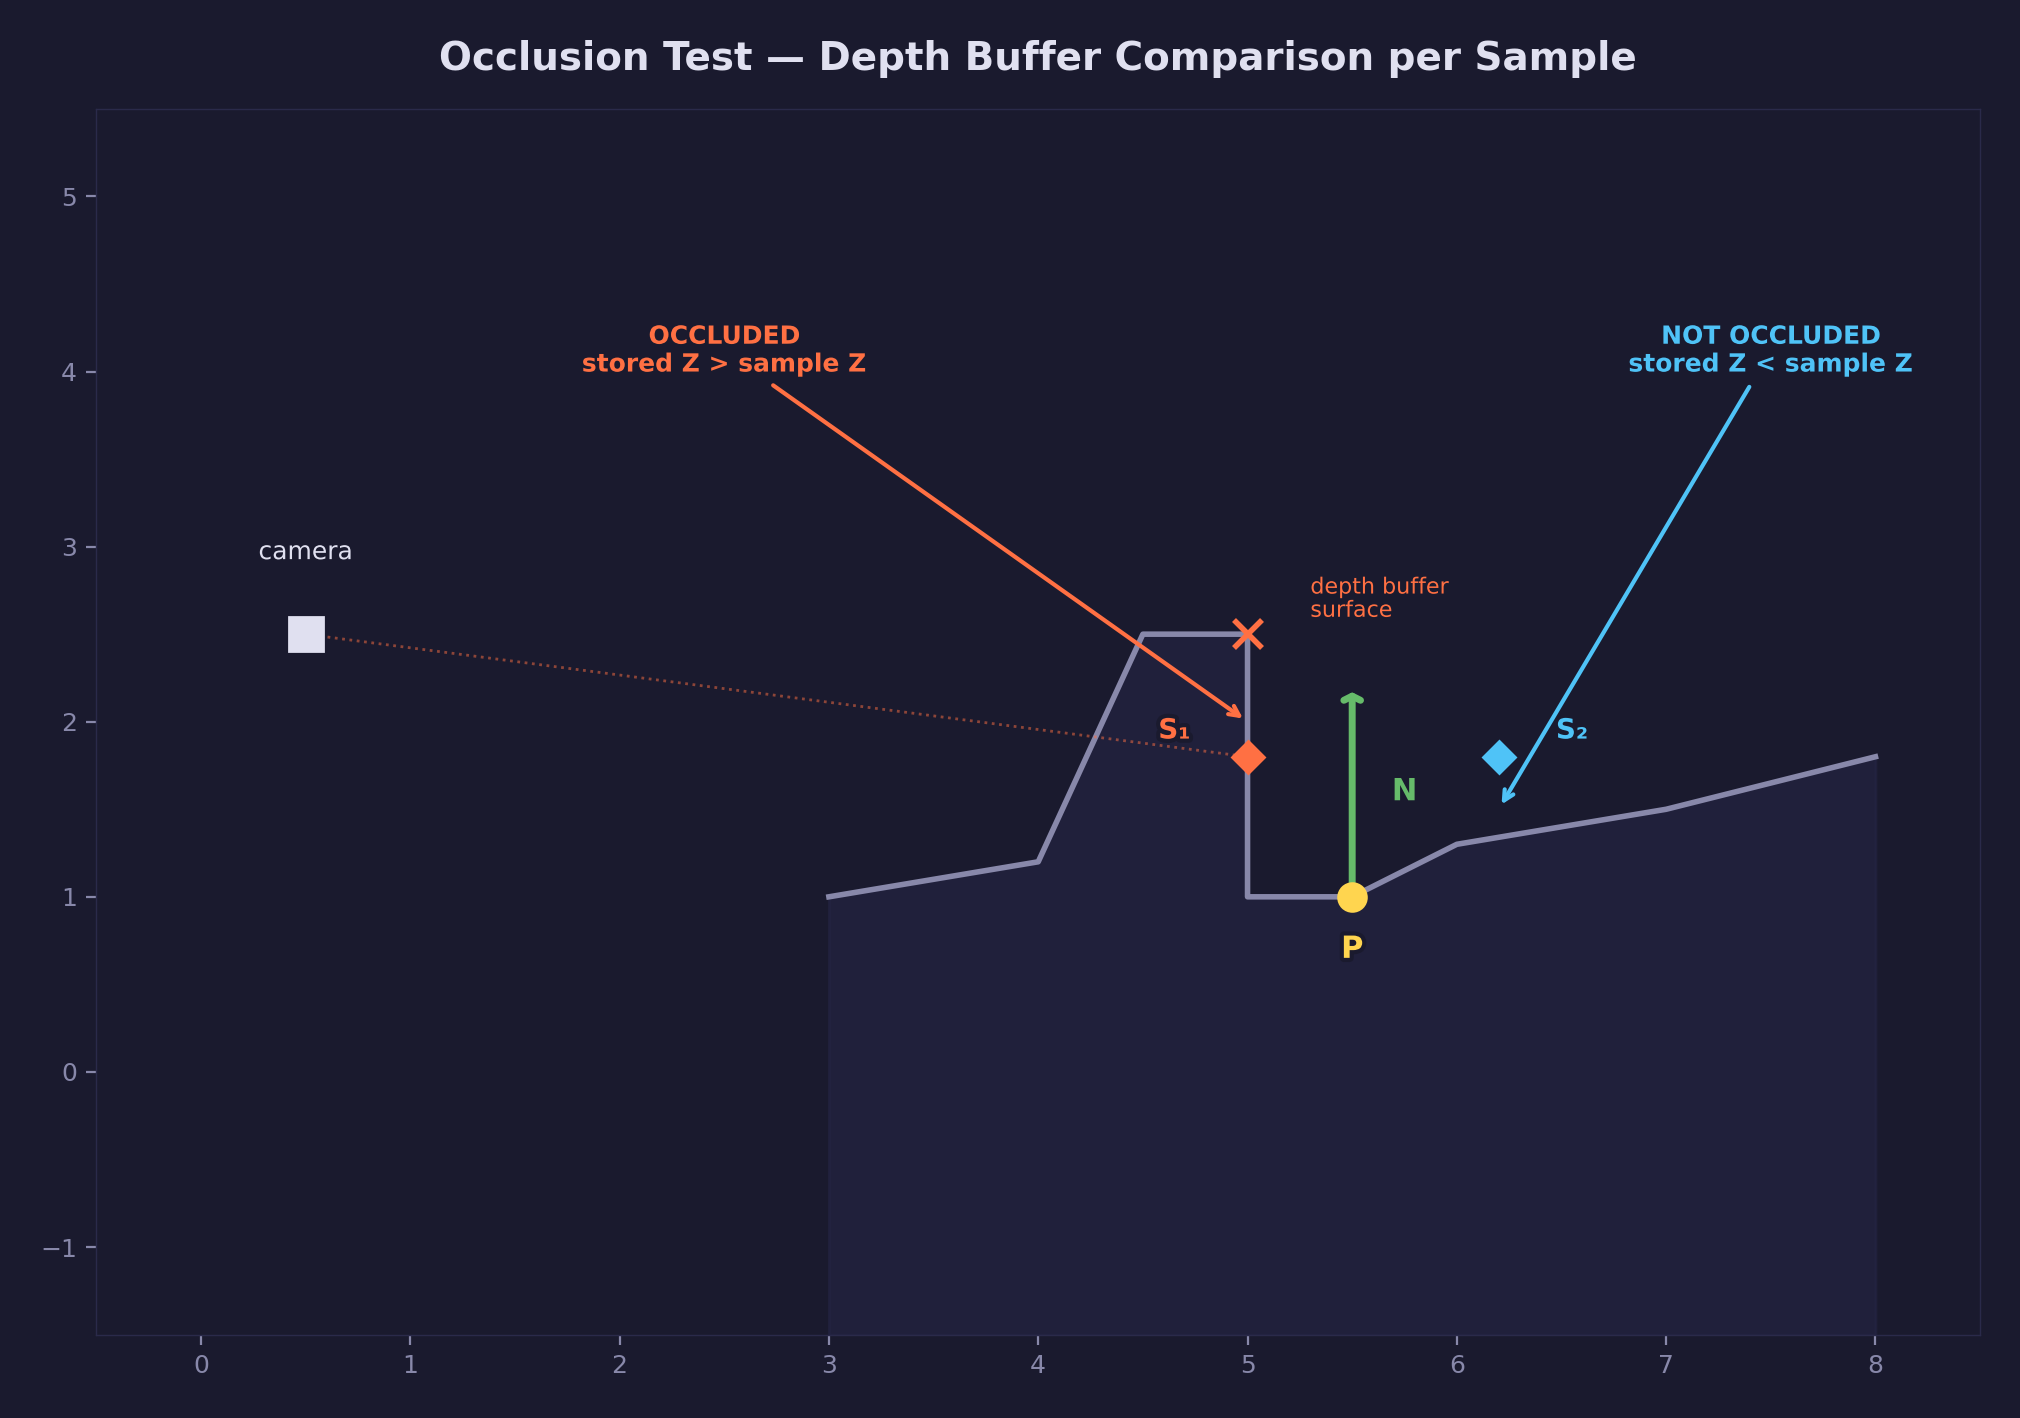
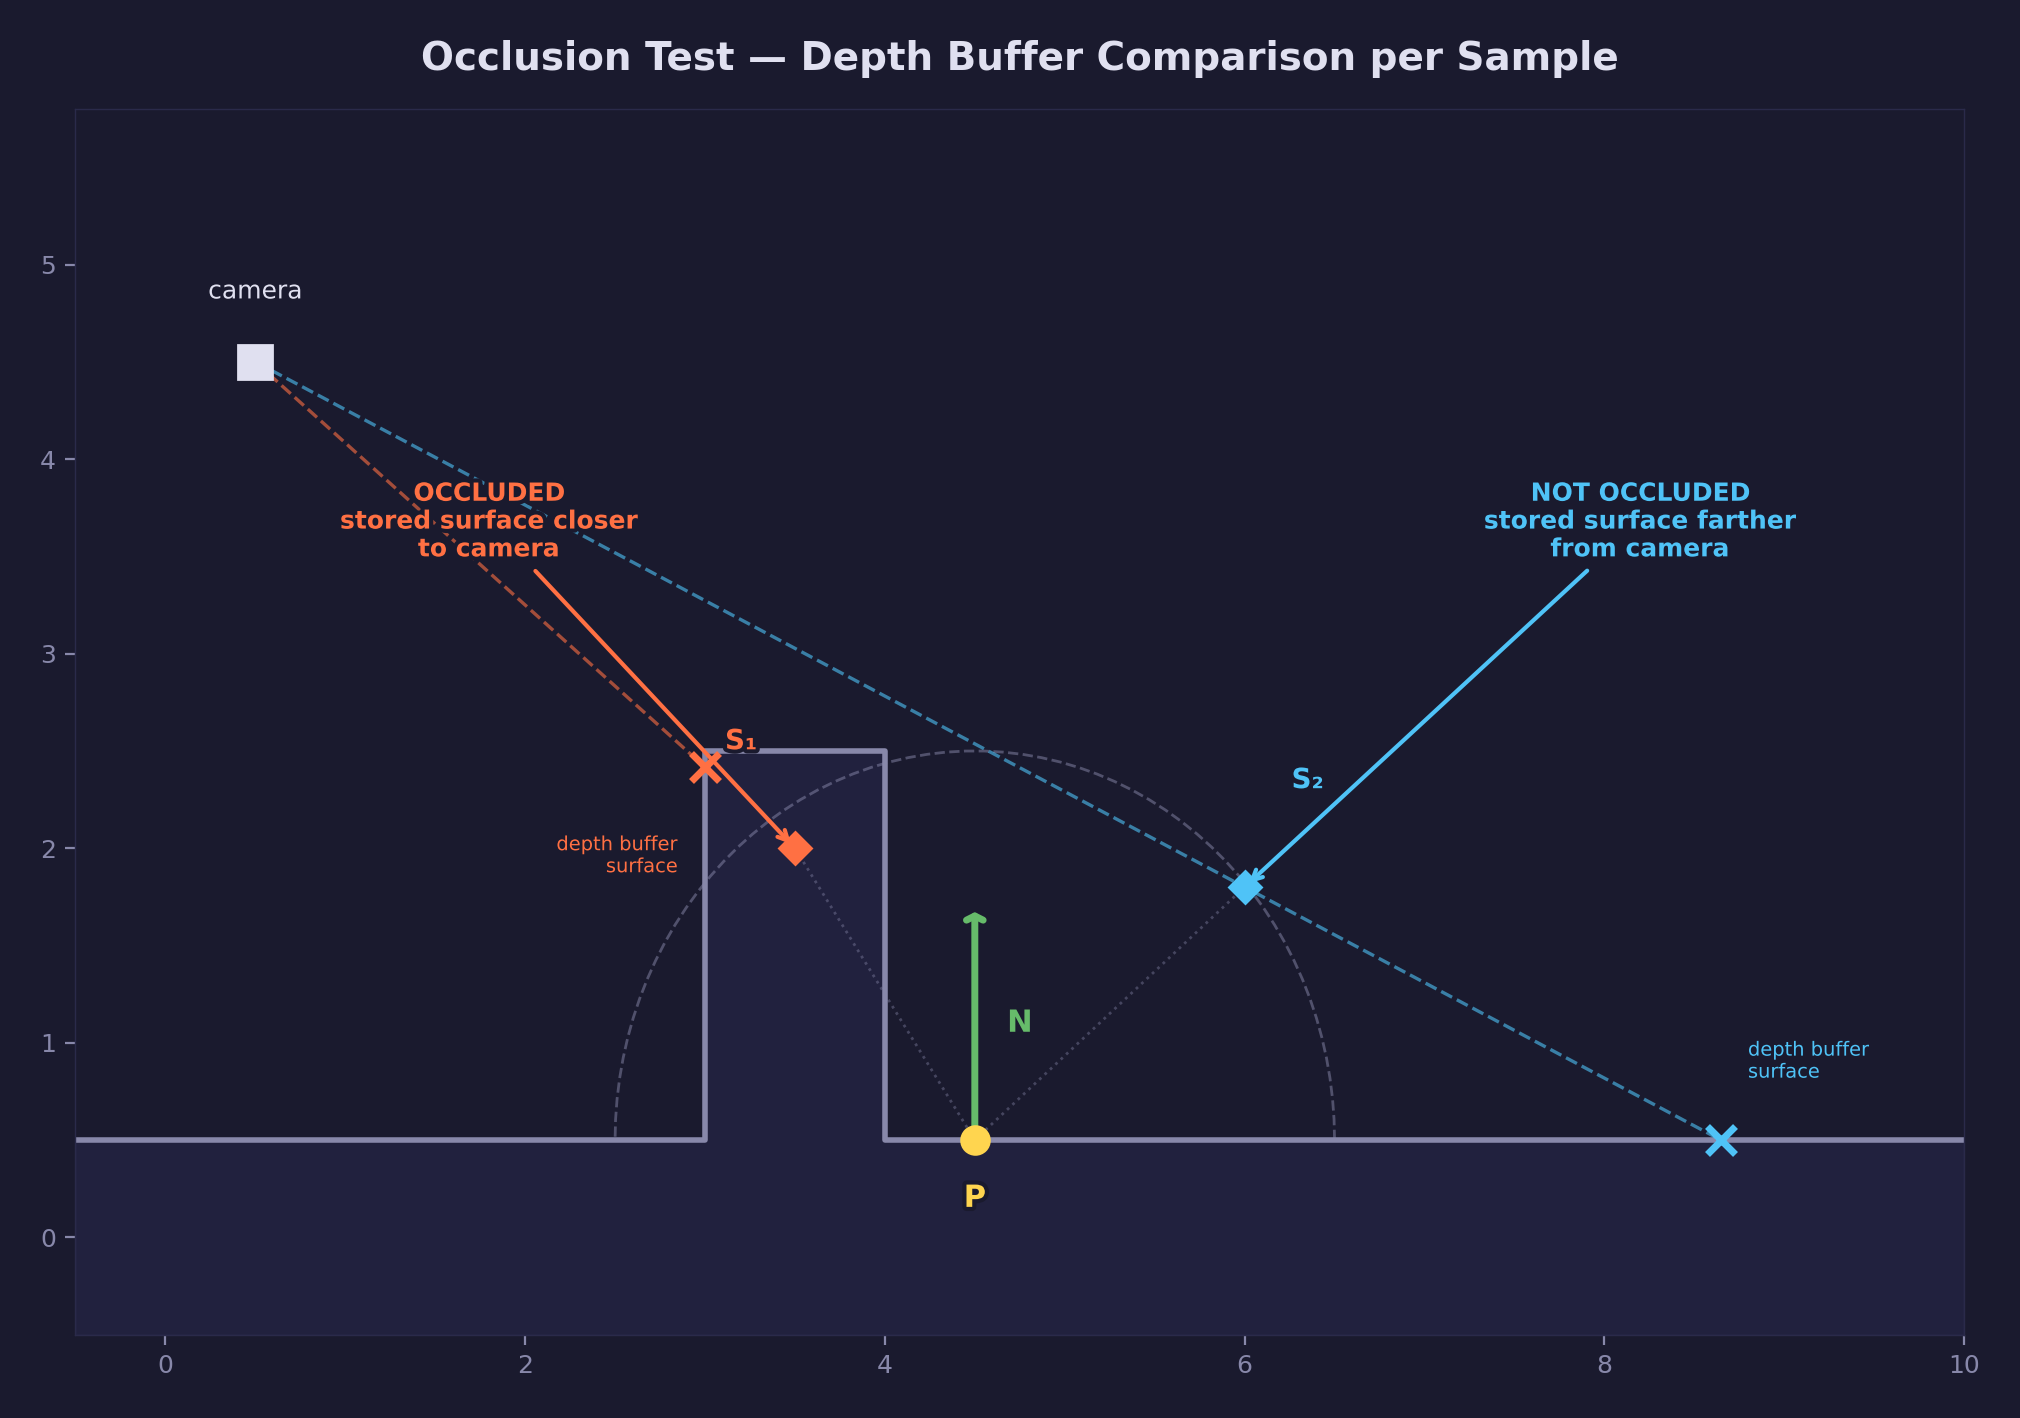
Improve SSAO occlusion diagram clarity and expand composite pass docs
Redesign the occlusion test diagram with concrete geometry (floor + step
block) instead of an abstract curved surface. Add explicit camera
projection rays to depth buffer hits, a dashed hemisphere arc showing
the sampling region, and plain-language annotations ("stored surface
closer/farther from camera" instead of "stored Z > sample Z").

Expand the composite pass section in the README to explain that it
targets the swapchain texture and how SDL's GPU API determines what
appears on screen, with a code snippet showing the setup.

Fix the view normals format in the render pipeline diagram from
R16G16_FLOAT to R16G16B16A16_FLOAT to match the actual code.

diff --git a/scripts/forge_diagrams/gpu_diagrams.py b/scripts/forge_diagrams/gpu_diagrams.py
@@ -7663,7 +7663,7 @@ def diagram_ssao_render_pipeline():
     outputs = [
         (1.0, 4.3, "shadow_depth\nD32_FLOAT\n2048\u00d72048", STYLE["accent4"]),
         (3.8, 3.1, "scene_color\nR8G8B8A8", STYLE["accent1"]),
-        (3.8, 1.8, "view_normals\nR16G16_FLOAT", STYLE["accent1"]),
+        (3.8, 1.8, "view_normals\nR16G16B16A16_FLOAT", STYLE["accent1"]),
         (3.8, 0.5, "scene_depth\nD32_FLOAT", STYLE["accent1"]),
         (6.6, 4.3, "ssao_raw\nR8_UNORM", STYLE["accent2"]),
         (9.4, 4.3, "ssao_blurred\nR8_UNORM", STYLE["accent3"]),
@@ -8469,16 +8469,30 @@ def diagram_occlusion_test():
     """How a single SSAO sample is tested: project, depth compare, range check."""
     fig = plt.figure(figsize=(10, 7), facecolor=STYLE["bg"])
     ax = fig.add_subplot(111)
-    setup_axes(ax, xlim=(-0.5, 8.5), ylim=(-1.5, 5.5), grid=False, aspect=None)
+    setup_axes(ax, xlim=(-0.5, 10.0), ylim=(-0.5, 5.8), grid=False, aspect=None)
 
     stroke = [pe.withStroke(linewidth=3, foreground=STYLE["bg"])]
 
-    # Camera at left
-    cam_x, cam_y = 0.5, 2.5
+    # ---- Geometry: floor + step block ----
+    floor_y = 0.5
+    step_left, step_right, step_top = 3.0, 4.0, 2.5
+
+    # Filled cross-section (floor extends full width, step rises in the middle)
+    geom_x = [-0.5, -0.5, step_left, step_left, step_right, step_right, 10.0, 10.0]
+    geom_y = [-0.5, floor_y, floor_y, step_top, step_top, floor_y, floor_y, -0.5]
+    ax.fill(geom_x, geom_y, color=STYLE["surface"], alpha=0.7, zorder=1)
+
+    # Visible surface outline
+    outline_x = [-0.5, step_left, step_left, step_right, step_right, 10.0]
+    outline_y = [floor_y, floor_y, step_top, step_top, floor_y, floor_y]
+    ax.plot(outline_x, outline_y, "-", color=STYLE["text_dim"], lw=2, zorder=2)
+
+    # ---- Camera ----
+    cam_x, cam_y = 0.5, 4.5
     ax.plot(cam_x, cam_y, "s", color=STYLE["text"], markersize=12, zorder=6)
     ax.text(
         cam_x,
-        cam_y + 0.4,
+        cam_y + 0.3,
         "camera",
         color=STYLE["text"],
         fontsize=9,
@@ -8488,21 +8502,8 @@ def diagram_occlusion_test():
         zorder=5,
     )
 
-    # Scene surface (cross-section) — a curved surface with a crevice
-    surface_x = np.array([3.0, 4.0, 4.5, 5.0, 5.0, 5.5, 6.0, 7.0, 8.0])
-    surface_y = np.array([1.0, 1.2, 2.5, 2.5, 1.0, 1.0, 1.3, 1.5, 1.8])
-    ax.fill_between(
-        surface_x,
-        [-1.5] * len(surface_x),
-        surface_y,
-        color=STYLE["surface"],
-        alpha=0.6,
-        zorder=1,
-    )
-    ax.plot(surface_x, surface_y, "-", color=STYLE["text_dim"], lw=2, zorder=2)
-
-    # Fragment point P on the surface
-    px, py = 5.5, 1.0
+    # ---- Fragment P on the floor just past the step ----
+    px, py = 4.5, 0.5
     ax.plot(px, py, "o", color=STYLE["warn"], markersize=10, zorder=6)
     ax.text(
         px,
@@ -8517,7 +8518,7 @@ def diagram_occlusion_test():
         zorder=5,
     )
 
-    # Normal at P
+    # Normal at P (pointing up from the floor)
     draw_vector(
         ax,
         (px, py),
@@ -8528,12 +8529,19 @@ def diagram_occlusion_test():
         lw=2.5,
     )
 
-    # Sample point S1 (occluded — behind the wall at 5.0, 2.5)
-    s1x, s1y = 5.0, 1.8
+    # ---- Hemisphere arc (dashed) showing the sampling region above P ----
+    hemisphere_r = 2.0
+    theta = np.linspace(0, np.pi, 60)
+    arc_x = px + hemisphere_r * np.cos(theta)
+    arc_y = py + hemisphere_r * np.sin(theta)
+    ax.plot(arc_x, arc_y, "--", color=STYLE["text_dim"], lw=1, alpha=0.5, zorder=3)
+
+    # ---- S1: occluded sample (toward the step) ----
+    s1x, s1y = 3.5, 2.0
     ax.plot(s1x, s1y, "D", color=STYLE["accent2"], markersize=8, zorder=6)
     ax.text(
-        s1x - 0.35,
-        s1y + 0.15,
+        s1x - 0.3,
+        s1y + 0.55,
         "S\u2081",
         color=STYLE["accent2"],
         fontsize=10,
@@ -8544,33 +8552,50 @@ def diagram_occlusion_test():
         zorder=5,
     )
 
-    # Dashed line from camera through S1 to depth buffer hit
-    ax.plot([cam_x, s1x], [cam_y, s1y], ":", color=STYLE["accent2"], lw=1, alpha=0.5)
-    # The stored surface at that screen position is at 2.5 (the wall)
+    # Dotted line from P to S1 (hemisphere sample direction)
     ax.plot(
-        s1x,
-        2.5,
+        [px, s1x], [py, s1y], ":", color=STYLE["text_dim"], lw=1, alpha=0.4, zorder=3
+    )
+
+    # Camera projection ray through S1 → hits step front face at x = 3.0
+    # Ray dir: (3.0, -2.5); at x=3.0 ⇒ t=5/6, y = 4.5 − 2.5·(5/6) ≈ 2.417
+    hit1_x = 3.0
+    hit1_y = cam_y + (s1y - cam_y) * (hit1_x - cam_x) / (s1x - cam_x)
+    ax.plot(
+        [cam_x, hit1_x],
+        [cam_y, hit1_y],
+        "--",
+        color=STYLE["accent2"],
+        lw=1.2,
+        alpha=0.6,
+        zorder=3,
+    )
+    ax.plot(
+        hit1_x,
+        hit1_y,
         "x",
         color=STYLE["accent2"],
         markersize=10,
-        markeredgewidth=2,
+        markeredgewidth=2.5,
         zorder=6,
     )
     ax.text(
-        s1x + 0.3,
-        2.7,
+        hit1_x - 0.15,
+        hit1_y - 0.35,
         "depth buffer\nsurface",
         color=STYLE["accent2"],
-        fontsize=8,
-        ha="left",
-        va="center",
+        fontsize=7,
+        ha="right",
+        va="top",
         path_effects=stroke,
         zorder=5,
     )
+
+    # Annotation: OCCLUDED — step face is closer to camera than S1
     ax.annotate(
-        "OCCLUDED\nstored Z > sample Z",
-        xy=(s1x, 2.0),
-        xytext=(2.5, 4.0),
+        "OCCLUDED\nstored surface closer\nto camera",
+        xy=(s1x, s1y),
+        xytext=(1.8, 3.5),
         color=STYLE["accent2"],
         fontsize=9,
         fontweight="bold",
@@ -8584,12 +8609,12 @@ def diagram_occlusion_test():
         zorder=5,
     )
 
-    # Sample point S2 (not occluded — open space)
-    s2x, s2y = 6.2, 1.8
+    # ---- S2: not occluded sample (away from the step, open air) ----
+    s2x, s2y = 6.0, 1.8
     ax.plot(s2x, s2y, "D", color=STYLE["accent1"], markersize=8, zorder=6)
     ax.text(
         s2x + 0.35,
-        s2y + 0.15,
+        s2y + 0.55,
         "S\u2082",
         color=STYLE["accent1"],
         fontsize=10,
@@ -8600,11 +8625,51 @@ def diagram_occlusion_test():
         zorder=5,
     )
 
-    # The stored depth at that position is farther — surface at 1.3
+    # Dotted line from P to S2 (hemisphere sample direction)
+    ax.plot(
+        [px, s2x], [py, s2y], ":", color=STYLE["text_dim"], lw=1, alpha=0.4, zorder=3
+    )
+
+    # Camera projection ray through S2 → clears step, hits floor at y = 0.5
+    # Ray dir: (5.5, -2.7); at y=0.5 ⇒ t=4/2.7, x = 0.5 + 5.5·(4/2.7) ≈ 8.648
+    hit2_y = floor_y
+    t2 = (hit2_y - cam_y) / (s2y - cam_y)
+    hit2_x = cam_x + (s2x - cam_x) * t2
+    ax.plot(
+        [cam_x, hit2_x],
+        [cam_y, hit2_y],
+        "--",
+        color=STYLE["accent1"],
+        lw=1.2,
+        alpha=0.6,
+        zorder=3,
+    )
+    ax.plot(
+        hit2_x,
+        hit2_y,
+        "x",
+        color=STYLE["accent1"],
+        markersize=10,
+        markeredgewidth=2.5,
+        zorder=6,
+    )
+    ax.text(
+        hit2_x + 0.15,
+        hit2_y + 0.3,
+        "depth buffer\nsurface",
+        color=STYLE["accent1"],
+        fontsize=7,
+        ha="left",
+        va="bottom",
+        path_effects=stroke,
+        zorder=5,
+    )
+
+    # Annotation: NOT OCCLUDED — floor is farther from camera than S2
     ax.annotate(
-        "NOT OCCLUDED\nstored Z < sample Z",
-        xy=(s2x, 1.5),
-        xytext=(7.5, 4.0),
+        "NOT OCCLUDED\nstored surface farther\nfrom camera",
+        xy=(s2x, s2y),
+        xytext=(8.2, 3.5),
         color=STYLE["accent1"],
         fontsize=9,
         fontweight="bold",

diff --git a/lessons/gpu/27-ssao/README.md b/lessons/gpu/27-ssao/README.md
@@ -478,8 +478,21 @@ implement the bilateral variant.
 
 ![Composite display modes](assets/composite_modes.png)
 
-The final pass reads the blurred AO factor and the scene color from the
-geometry pass, and combines them:
+The composite pass is what actually puts pixels on screen. Unlike the earlier
+passes that render into off-screen textures, this pass targets the **swapchain
+texture** — the image that SDL presents to the window:
+
+```c
+comp_ct.texture  = swapchain_tex;   /* render directly to the screen */
+comp_ct.store_op = SDL_GPU_STOREOP_STORE;
+SDL_BeginGPURenderPass(cmd, &comp_ct, 1, NULL);
+```
+
+There is no special "final output" designation in SDL's GPU API. Whichever
+render pass uses the swapchain texture as its color target is the one whose
+output appears on screen. Here, the composite pass draws a fullscreen quad
+that samples the scene color and blurred AO as input textures, and writes
+the combined result to the swapchain:
 
 ```hlsl
 final_color = scene_color * ao;
